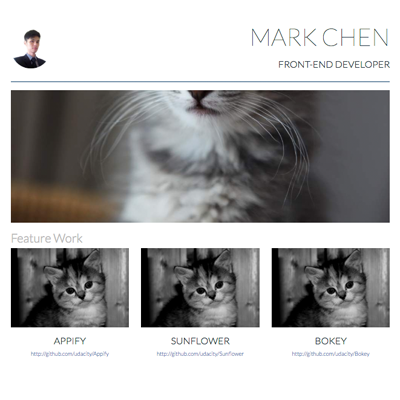
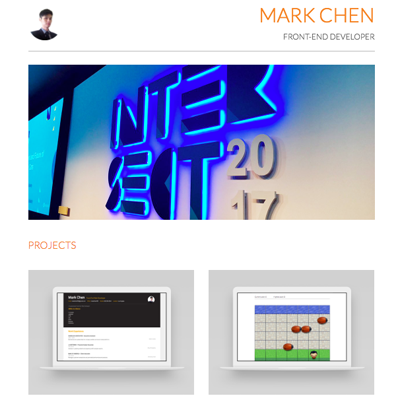
Style: Update font color and Portfolio picture

diff --git a/index.html b/index.html
@@ -3,7 +3,11 @@
 <head>
     <meta charset="utf-8">
     <meta name="viewport" content="width=device-width,initial-scale=1">
-    <title>Mark's Resume</title>
+    <title>Mark Chen Resume</title>
+    <meta name="author" content="Mark Chen">
+    <meta name="description" content="I’m Mark a front end developer based in Los Angeles, working across greater Los Angeles area">
+    <meta name="Copyright" content="Copyright Mark Chen 2017. All Rights Reserved.">
+    <meta name="apple-mobile-web-app-capable" content="yes">
     <script src="https://maps.googleapis.com/maps/api/js?libraries=places&key=AIzaSyBc6hldvKWIinGfsFRxrBD66MyGrBPjlYs"></script>
     <link href="https://fonts.googleapis.com/css?family=Lato:100,300" rel="stylesheet">
     <link rel="stylesheet" href="https://maxcdn.bootstrapcdn.com/font-awesome/4.7.0/css/font-awesome.min.css">

diff --git a/css/style.css b/css/style.css
@@ -54,7 +54,7 @@ h1 {
 h2 {
   font-weight: bold;
   font-size: 24px;
-  color: #f5ae23;
+  color: #f68323;
   line-height: 29px;
   padding: 10px;
 }
@@ -128,7 +128,7 @@ a {
 }
 
 #skills-h3 {
-  color: #f5ae23;
+  color: #f68323;
   display: none;
   padding-left: 0px;
 }
@@ -138,11 +138,11 @@ a {
 }
 
 .orange-text {
-  color: #f5ae23;
+  color: #f68323;
 }
 
 .orange-text a {
-  color: #f5ae23;
+  color: #f68323;
   margin-top: 0px;
   display: block;
   padding: 20px 0;
